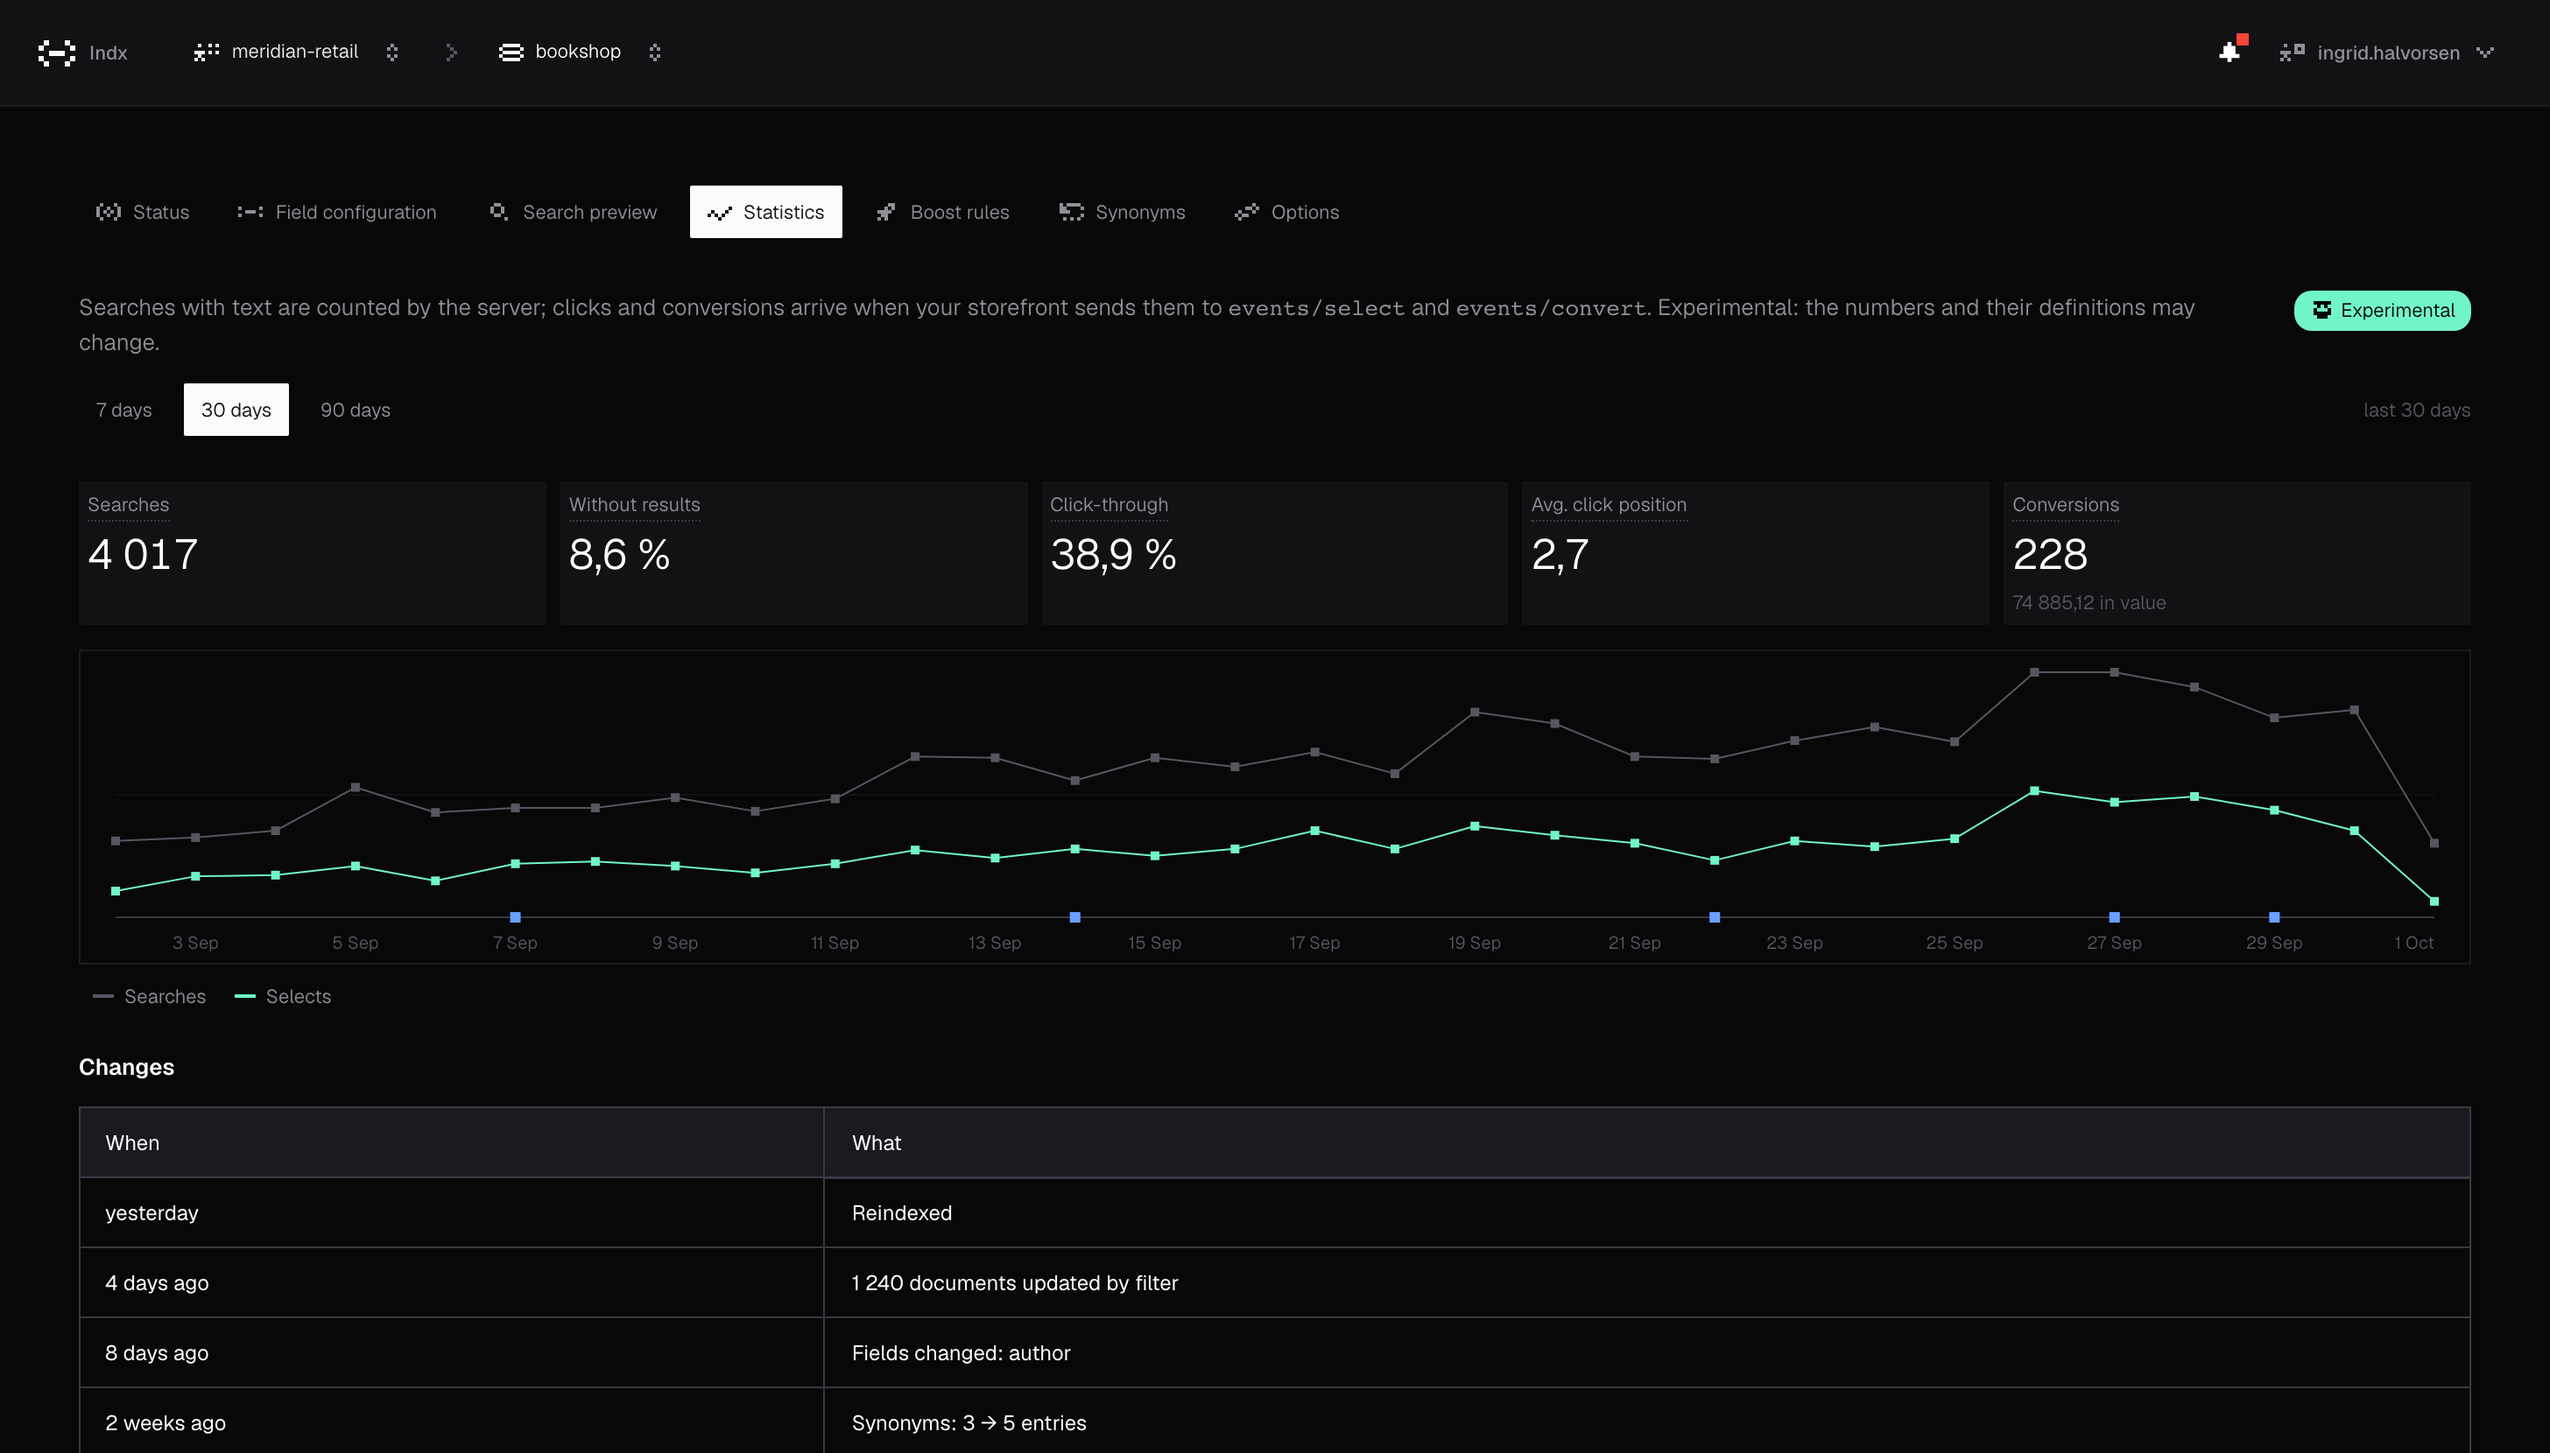
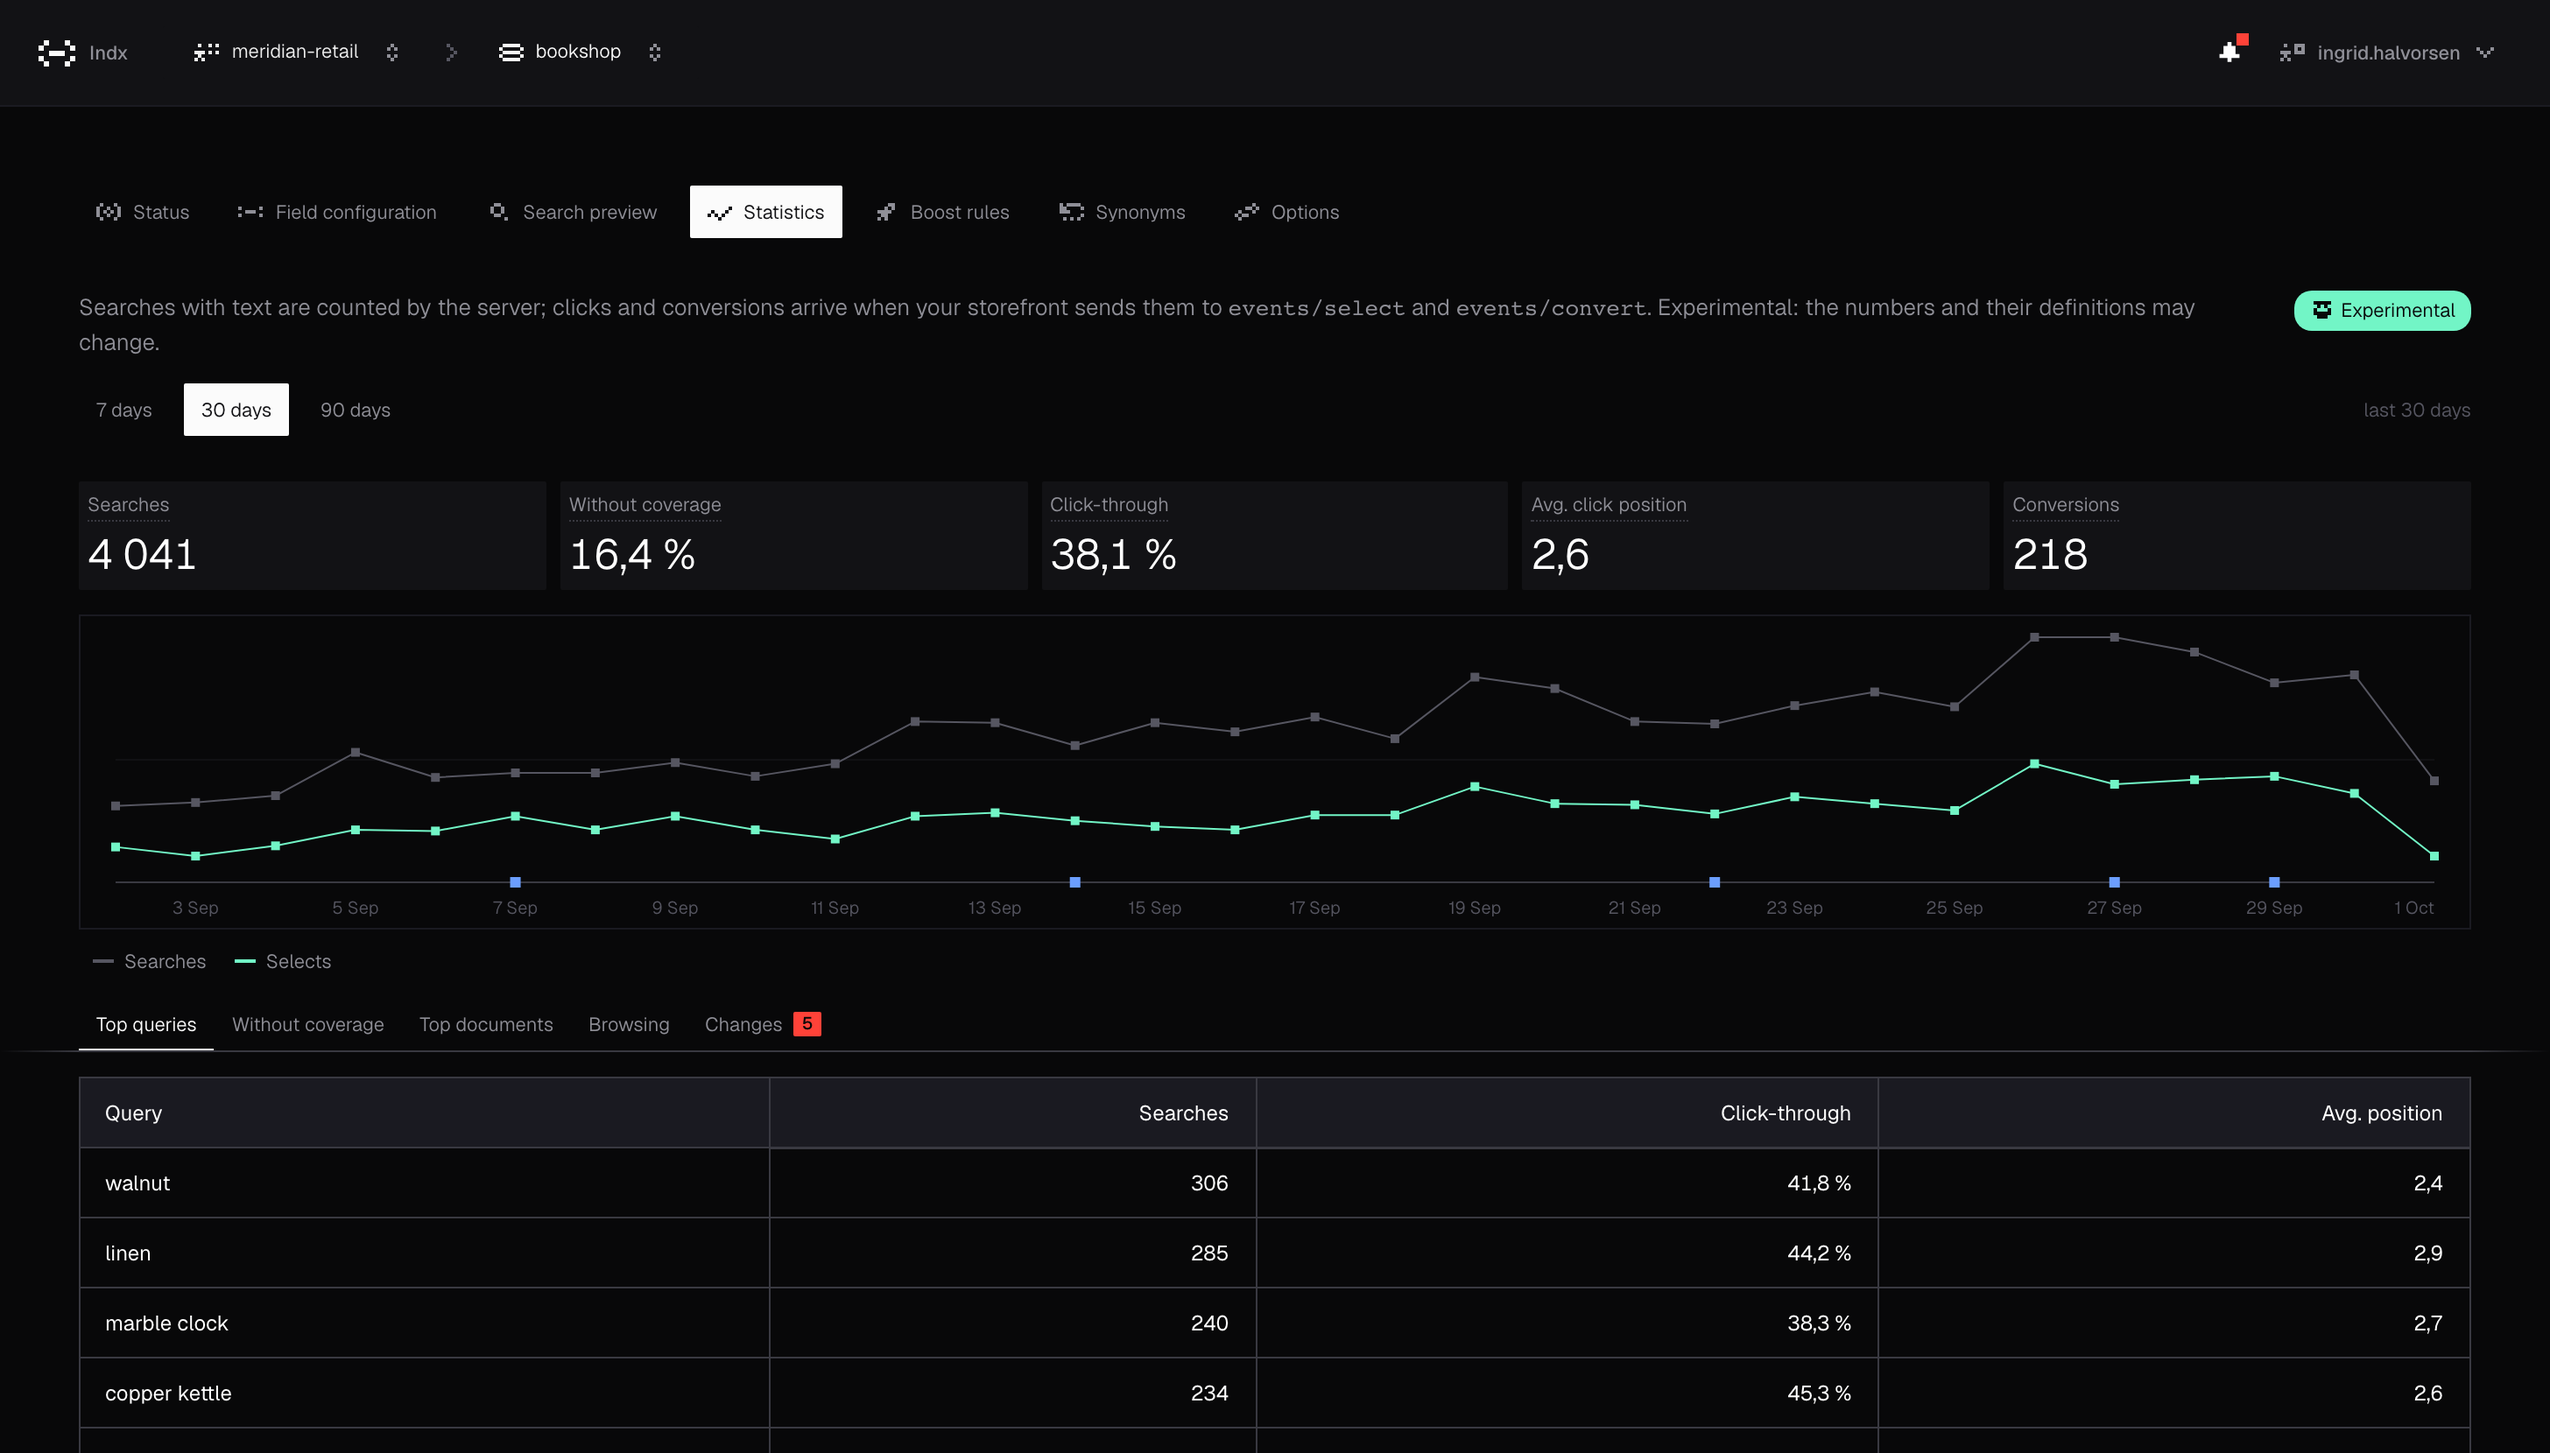
IndxServer docs: the Without coverage screenshot replaces Browsing

diff --git a/docs/images/README.md b/docs/images/README.md
@@ -12,7 +12,7 @@ the repository root, or `../images/<name>.png` from inside `docs/release-notes/`
 | `console-boost-rules.png` | Boost rules on `bookshop`: four rules, one scheduled, one switched off |
 | `console-synonyms.png` | The synonym list on `bookshop`: two-way entries and one one-way |
 | `console-statistics.png` | The Statistics tab on `bookshop`: a month of searches, clicks and orders, the changes made to the dataset marked under the chart and listed below it. Seeded by `seed.mjs traffic` and `history` |
-| `console-statistics-browsing.png` | Further down the same tab: Top queries with click-through and position, and Browsing, the filter values people narrowed by |
+| `console-statistics-coverage.png` | The same tab's Without coverage section: misspellings coverage confirmed nothing for, with what visitors chose anyway beside the ones fuzzy matching rescued |
 | `admin-users.png` | Admin → Users: accounts and platform roles. Not in the root README — six images is already a lot for one page; this one is here for release notes |
 | `admin-teams.png` | Admin → Teams: both teams with their members and team roles |
 | `admin-datasets.png` | Admin → Datasets: every dataset across every team, with keep-alive |
